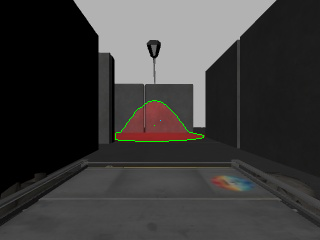
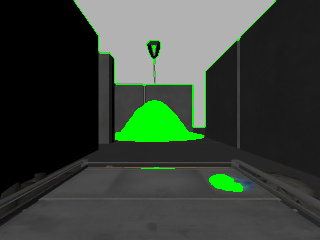
improved contour testing

diff --git a/ROS_Plugins/catkin_ws/src/navigation/src/cam_subscriber.py b/ROS_Plugins/catkin_ws/src/navigation/src/cam_subscriber.py
@@ -1,9 +1,19 @@
 #!/usr/bin/python3
+
 import rospy
 from sensor_msgs.msg import Image
 from geometry_msgs.msg import Twist, Vector3
 from cv_bridge import CvBridge, CvBridgeError
 import cv2
+import numpy as np
+
+LOWER_RED = np.array([10, 10, 80])
+UPPER_RED = np.array([255, 255, 130])
+IMAGE_WIDTH = 320
+IMAGE_HEIGHT = 240
+IMAGE_X_CENTER = IMAGE_WIDTH / 2
+IMAGE_Y_CENTER = IMAGE_HEIGHT / 2
+SMALL_CONTOUR_AREA = 400.0 # area of red logo next to camera is around 370
 
 class CameraProcessor:
     
@@ -32,6 +42,8 @@ class CameraProcessor:
             
         cv2.imshow("Image window", cv_image)
         cv2.imwrite("./image.jpg", cv_image)
+
+        # detect red
         # process image
         # get velocity
         
@@ -41,6 +53,36 @@ class CameraProcessor:
         rospy.loginfo(velocity)
         self.publish(velocity)
 
+    def process_image(self, image):
+        pass
+
+    def is_red_light(self, image):
+                     
+        blurred = cv2.GaussianBlur(image, (5, 5), 0) # reduces noise and makes detection more accurate
+        mask_red = cv2.inRange(blurred, LOWER_RED, UPPER_RED)
+        contours, _ = cv2.findContours(mask_red, cv2.RETR_EXTERNAL, cv2.CHAIN_APPROX_NONE)
+        # remove camera logo 
+         
+        im = np.copy(image)
+        c = max(contours, key = cv2.contourArea) # largest contour 
+        if cv2.contourArea(c) < SMALL_CONTOUR_AREA:
+            return False
+        
+    def find_x_shift(self, image):
+
+        # cv2.drawContours(im, c, -1, (0, 255, 0), 1)
+        M = cv2.moments(c)
+        if M['m00'] != 0: # finds center of contour
+            cx = int(M['m10']/M['m00'])
+            cy = int(M['m01']/M['m00'])
+        print(f"x: {cx} y: {cy}")
+        return cx - IMAGE_X_CENTER # returns the difference between the center of the image and the center of the red light
+
+    def detect_red(self,image):
+        pass
+    
+    def get_velocity(self, x_shift):
+        pass
 
 def process(rate):
     cp = CameraProcessor(rate)
